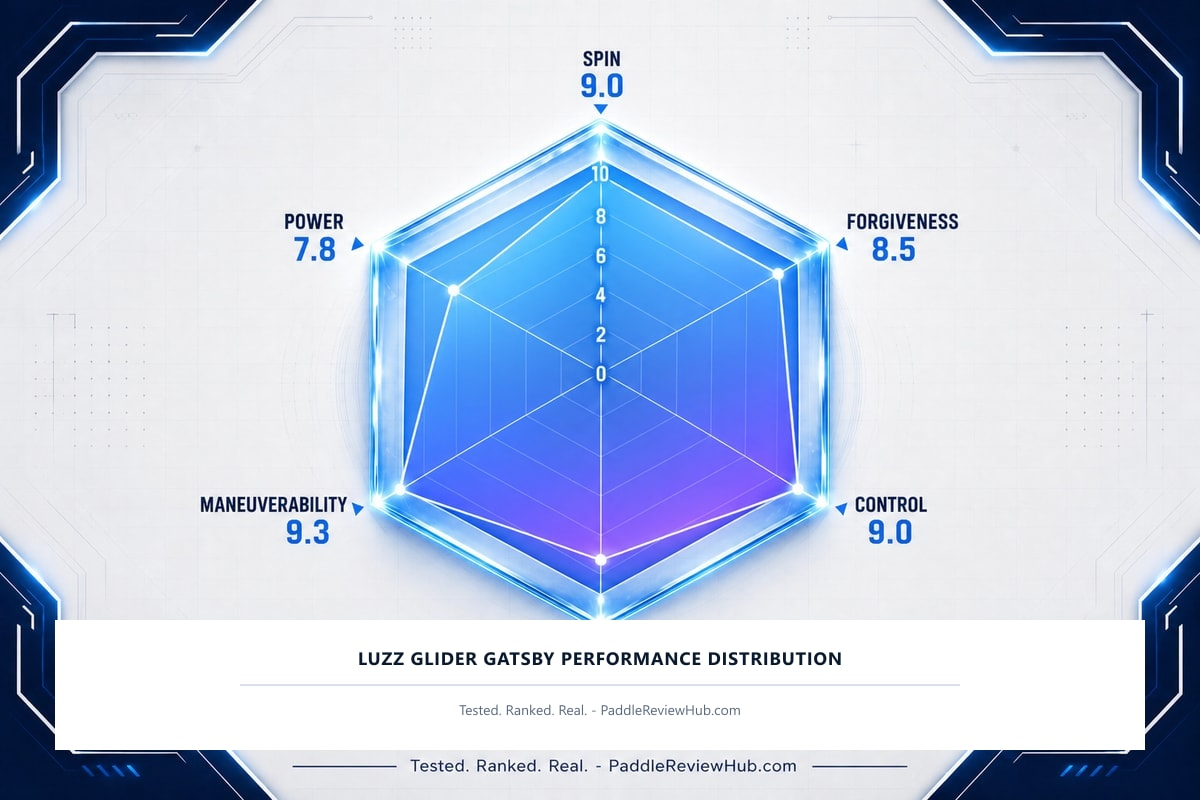
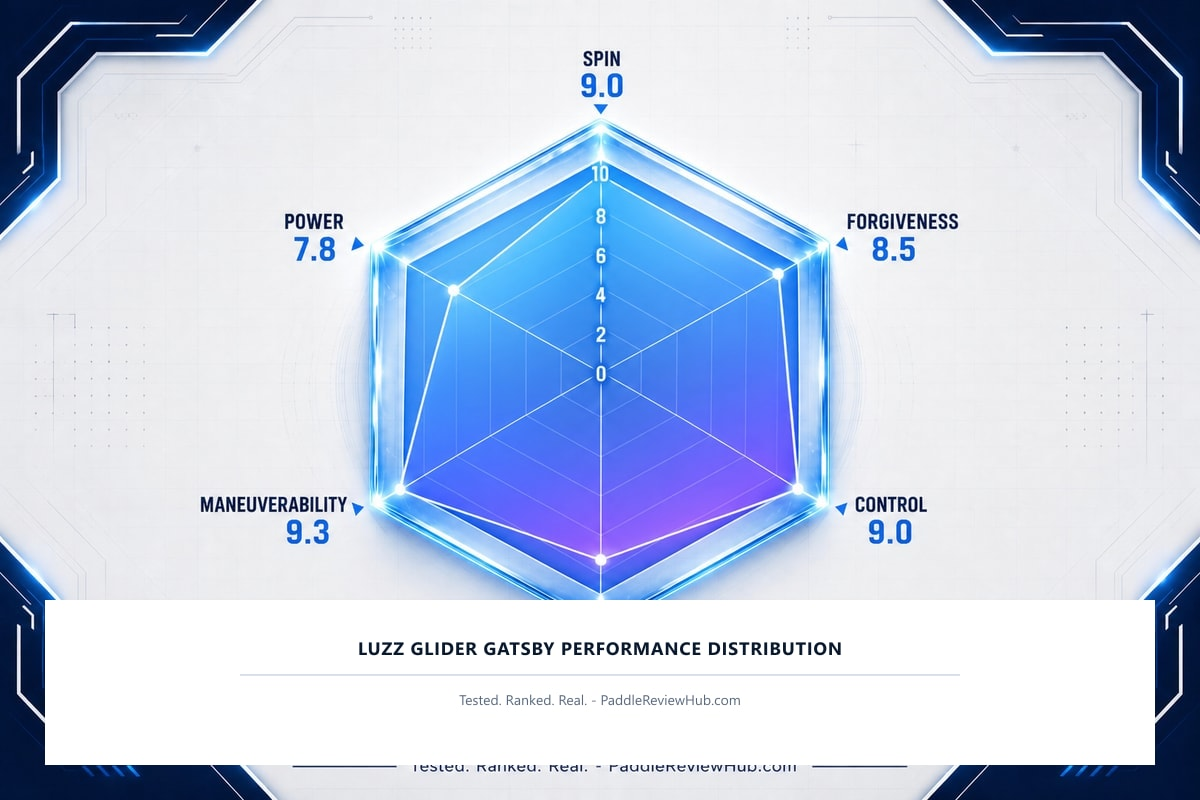
Widen variant title wipe so AI footer text does not double.

Changed region(s): [[0.2158, 0.75, 0.8017, 0.9062], [0.0308, 0.75, 0.6783, 0.9688], [0.7092, 0.75, 0.9867, 0.9688]]

diff --git a/scripts/package-ai-radars.ts b/scripts/package-ai-radars.ts
@@ -43,10 +43,10 @@ async function retitle(
   const bg = "#ffffff";
   const svg = `<?xml version="1.0" encoding="UTF-8"?>
 <svg xmlns="http://www.w3.org/2000/svg" width="1200" height="800" viewBox="0 0 1200 800">
-  <rect x="55" y="620" width="1090" height="130" fill="${bg}"/>
-  <text x="600" y="665" text-anchor="middle" fill="#0a1a2e" font-size="18" font-weight="800" font-family="Segoe UI, Helvetica, Arial, sans-serif" letter-spacing="0.8">${escapeXml(title)}</text>
-  <line x1="240" y1="685" x2="960" y2="685" stroke="#c5d0e0" stroke-width="1.3"/>
-  <text x="600" y="715" text-anchor="middle" fill="#5a6a80" font-size="14" font-family="Segoe UI, Helvetica, Arial, sans-serif">${escapeXml(credit)}</text>
+  <rect x="45" y="600" width="1110" height="165" fill="${bg}"/>
+  <text x="600" y="655" text-anchor="middle" fill="#0a1a2e" font-size="18" font-weight="800" font-family="Segoe UI, Helvetica, Arial, sans-serif" letter-spacing="0.8">${escapeXml(title)}</text>
+  <line x1="240" y1="675" x2="960" y2="675" stroke="#c5d0e0" stroke-width="1.3"/>
+  <text x="600" y="705" text-anchor="middle" fill="#5a6a80" font-size="14" font-family="Segoe UI, Helvetica, Arial, sans-serif">${escapeXml(credit)}</text>
 </svg>`;
   const overlay = await sharp(Buffer.from(svg)).png().toBuffer();
   const dest = path.join(OUT, destName);
